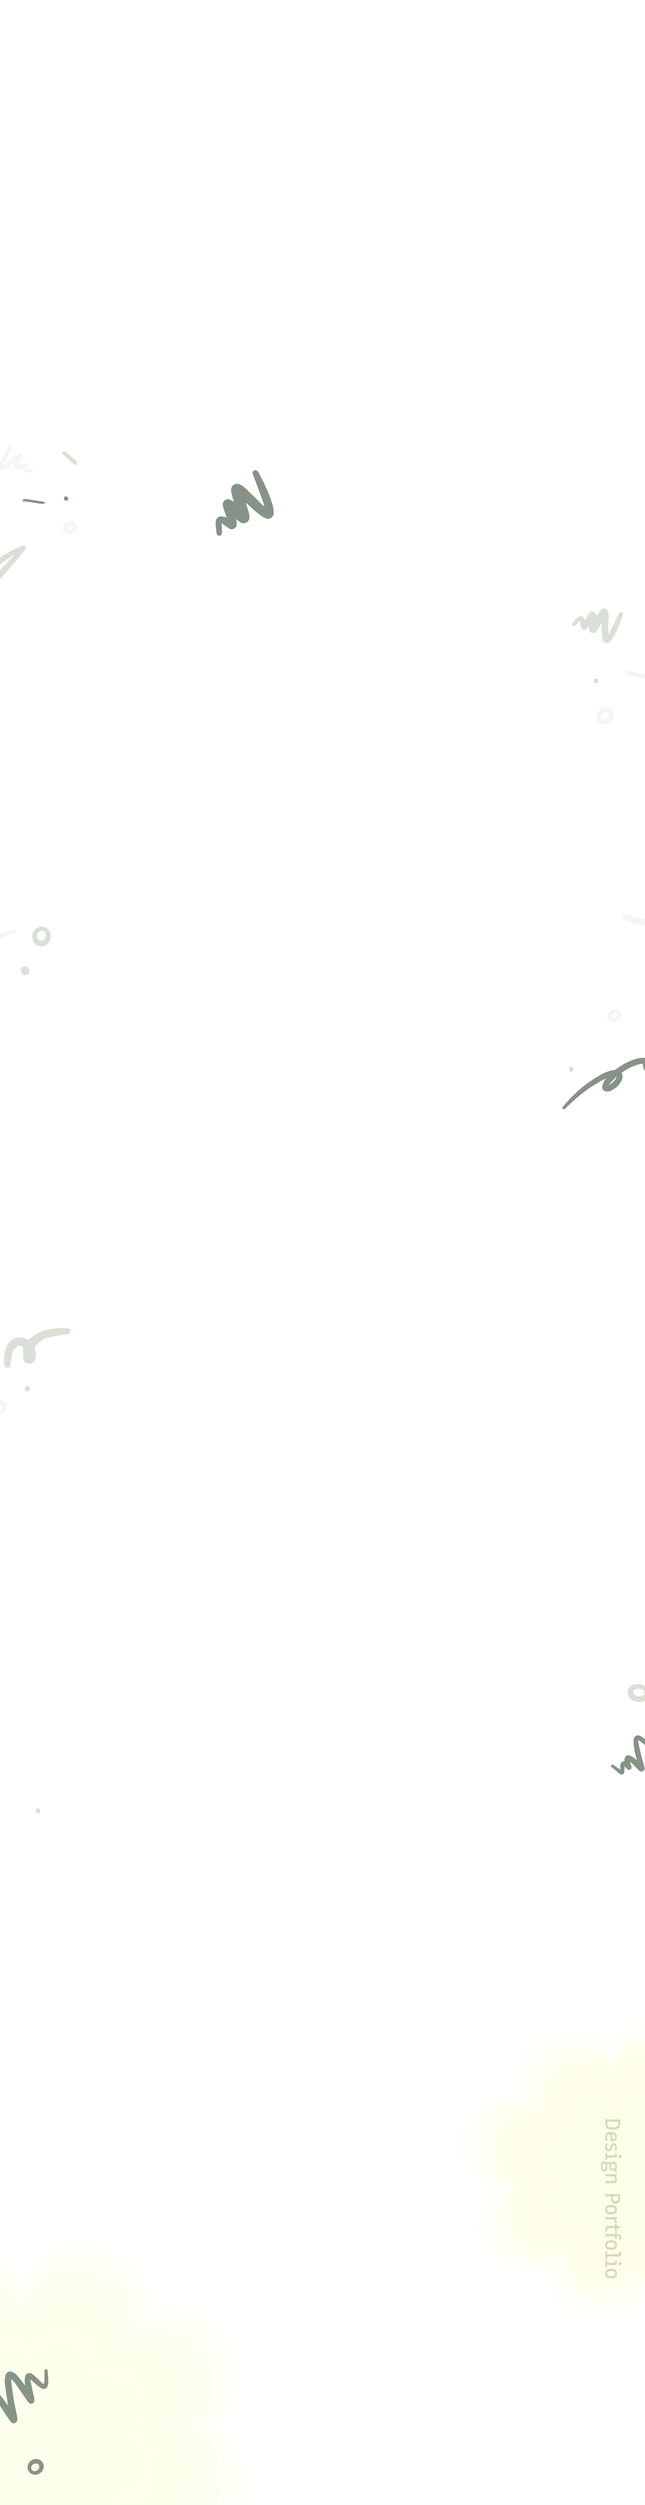
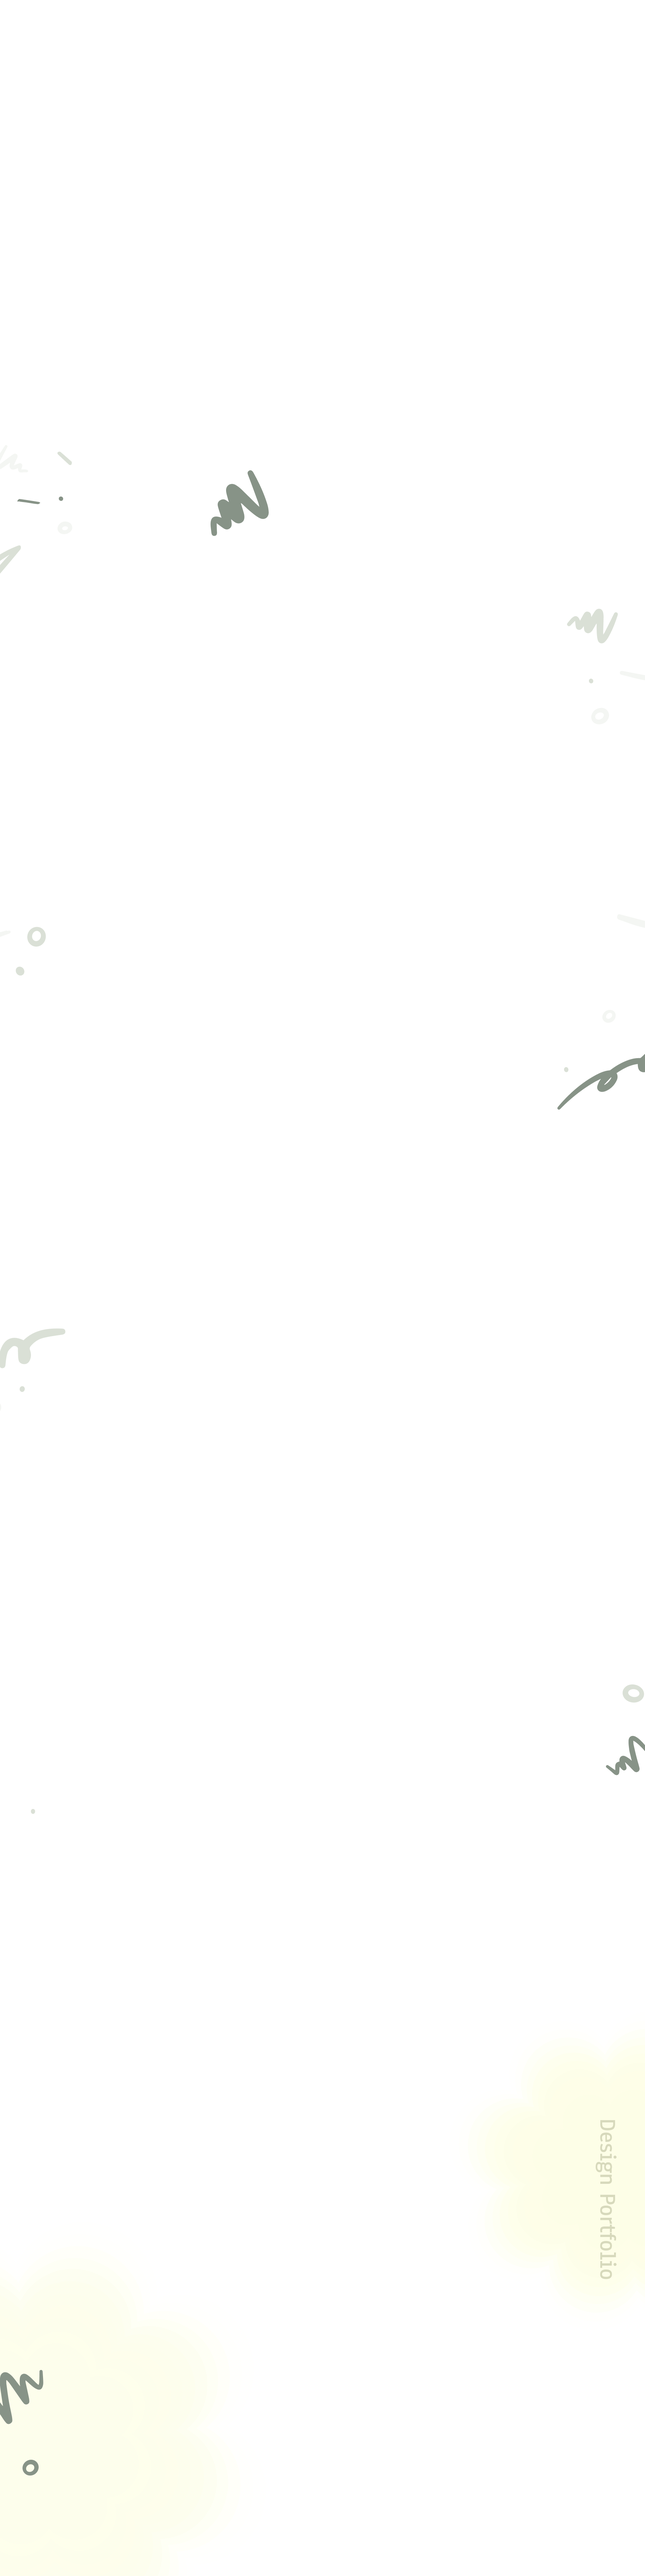
s

diff --git a/style.css b/style.css
@@ -22,7 +22,7 @@ a {
   height: auto;
   position: absolute;
   z-index: -1;
-  top: -200px;
+  top: 0px;
   left: 0;
   object-fit: cover;
 }
